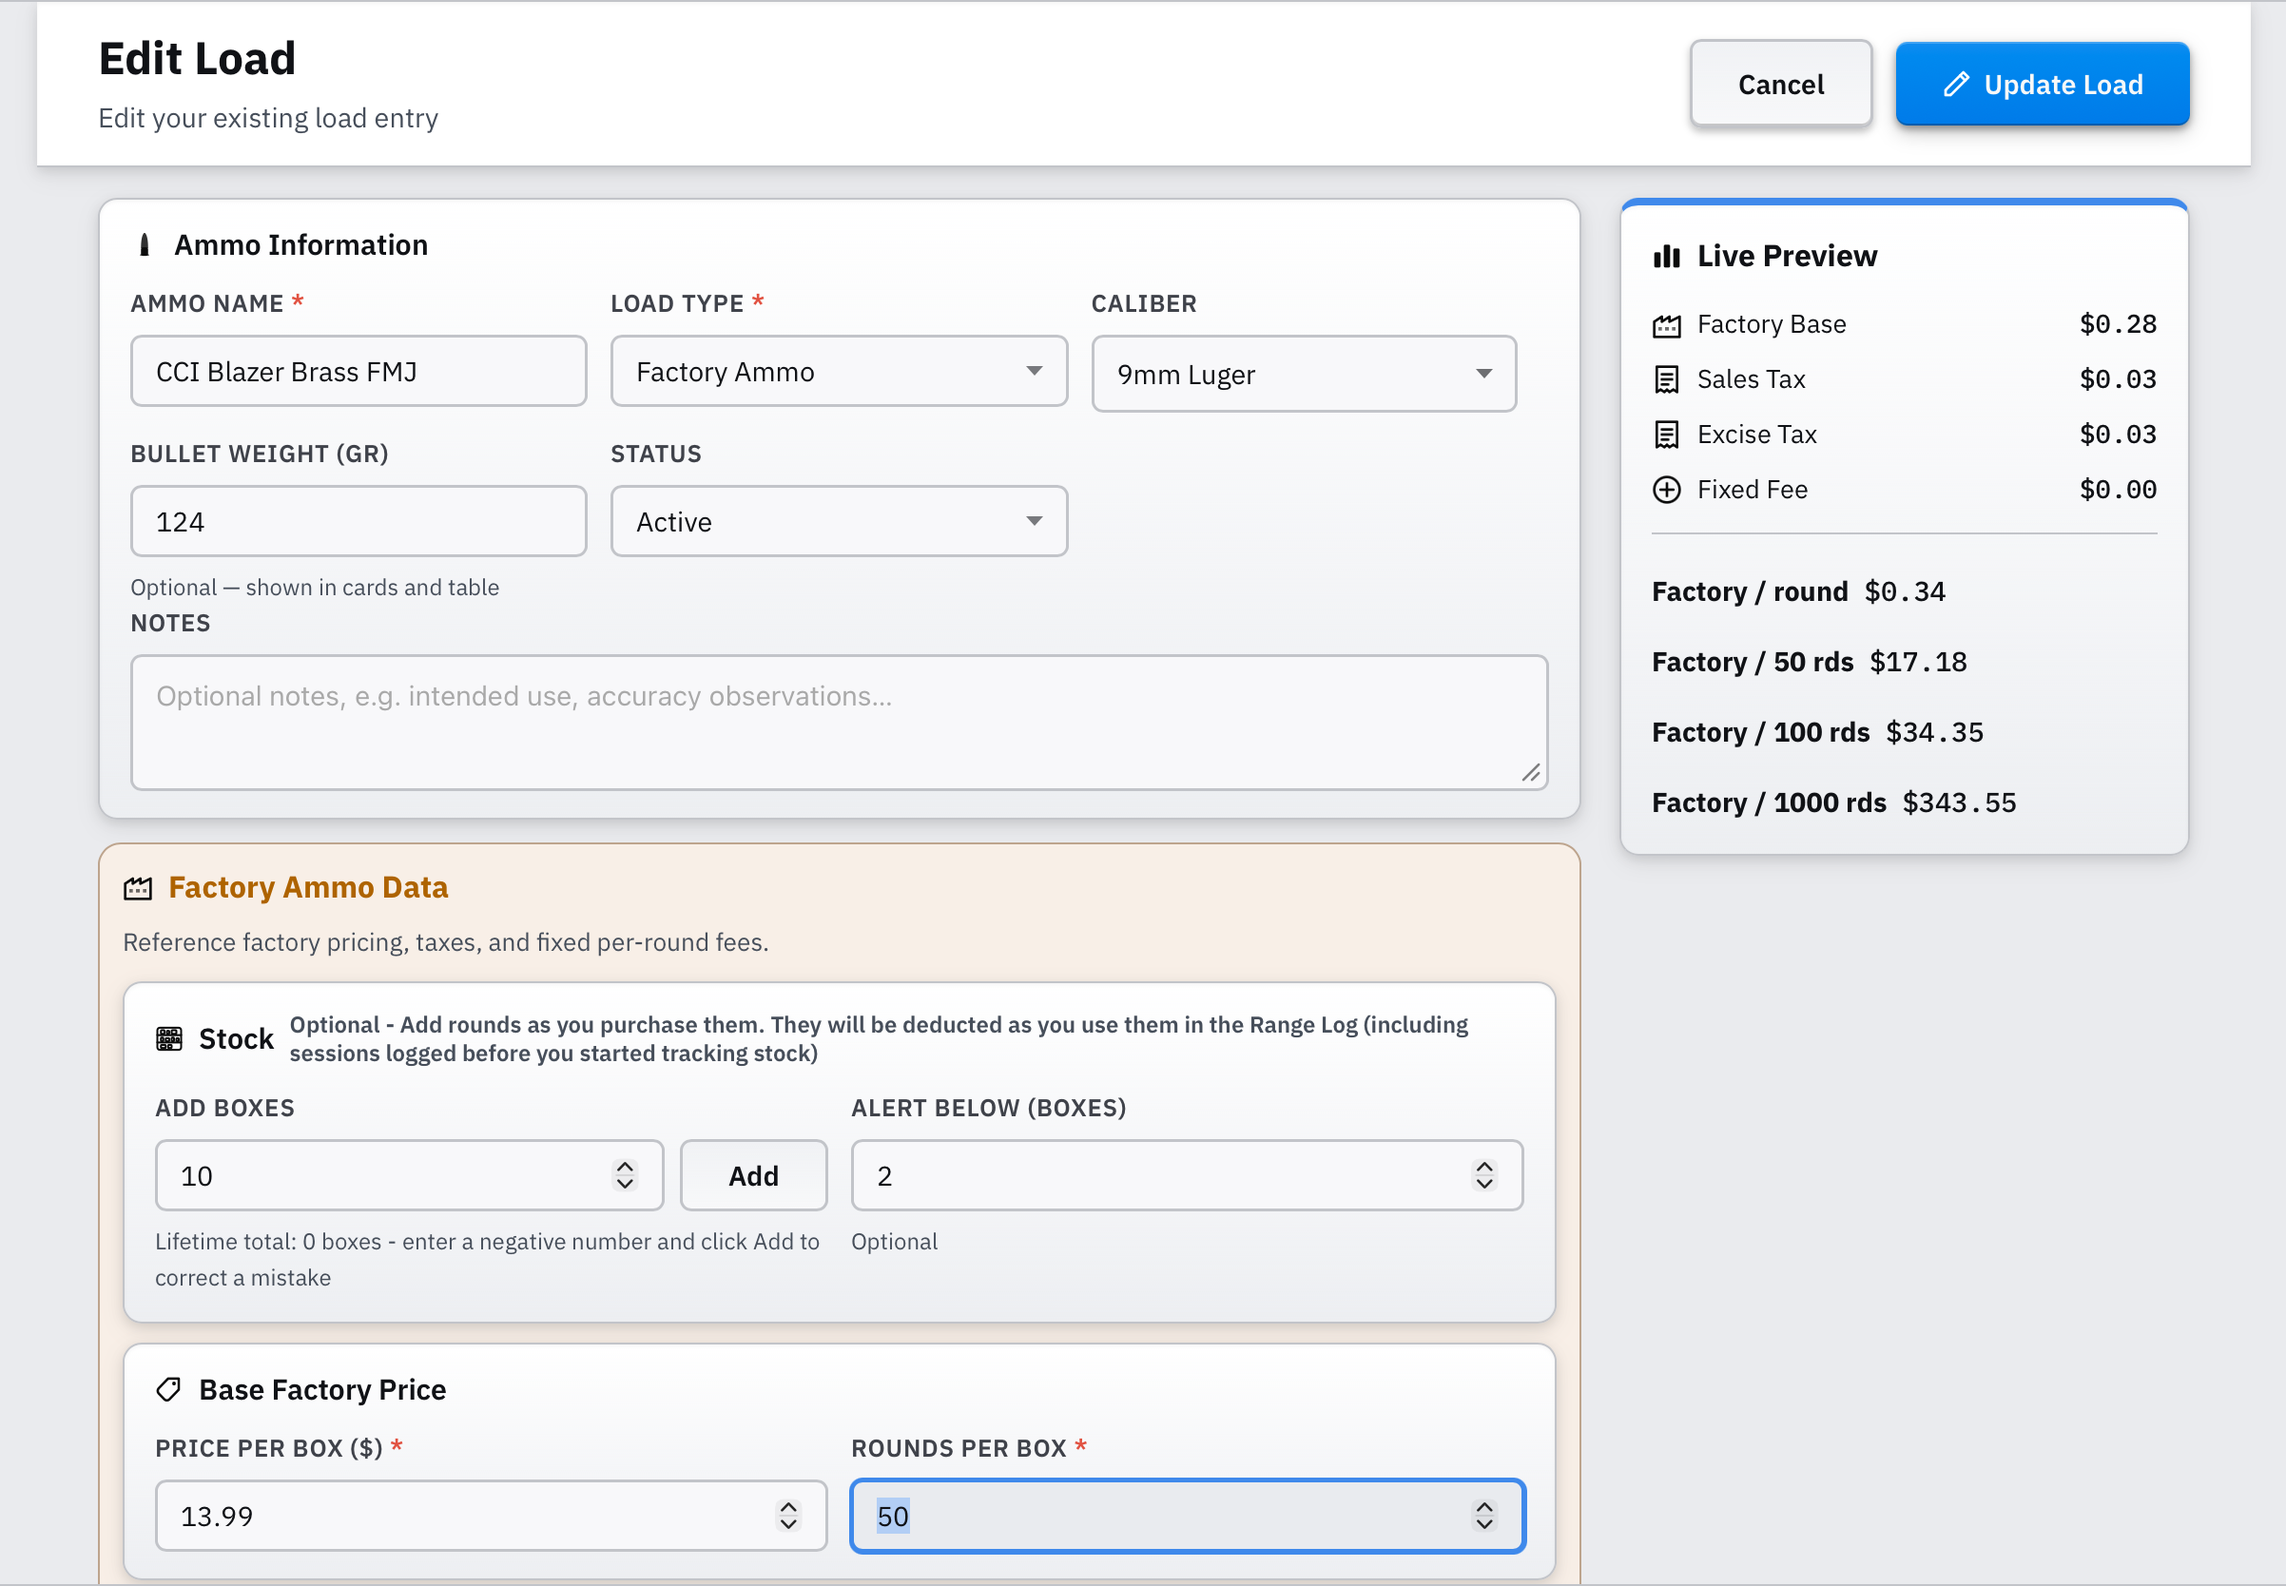
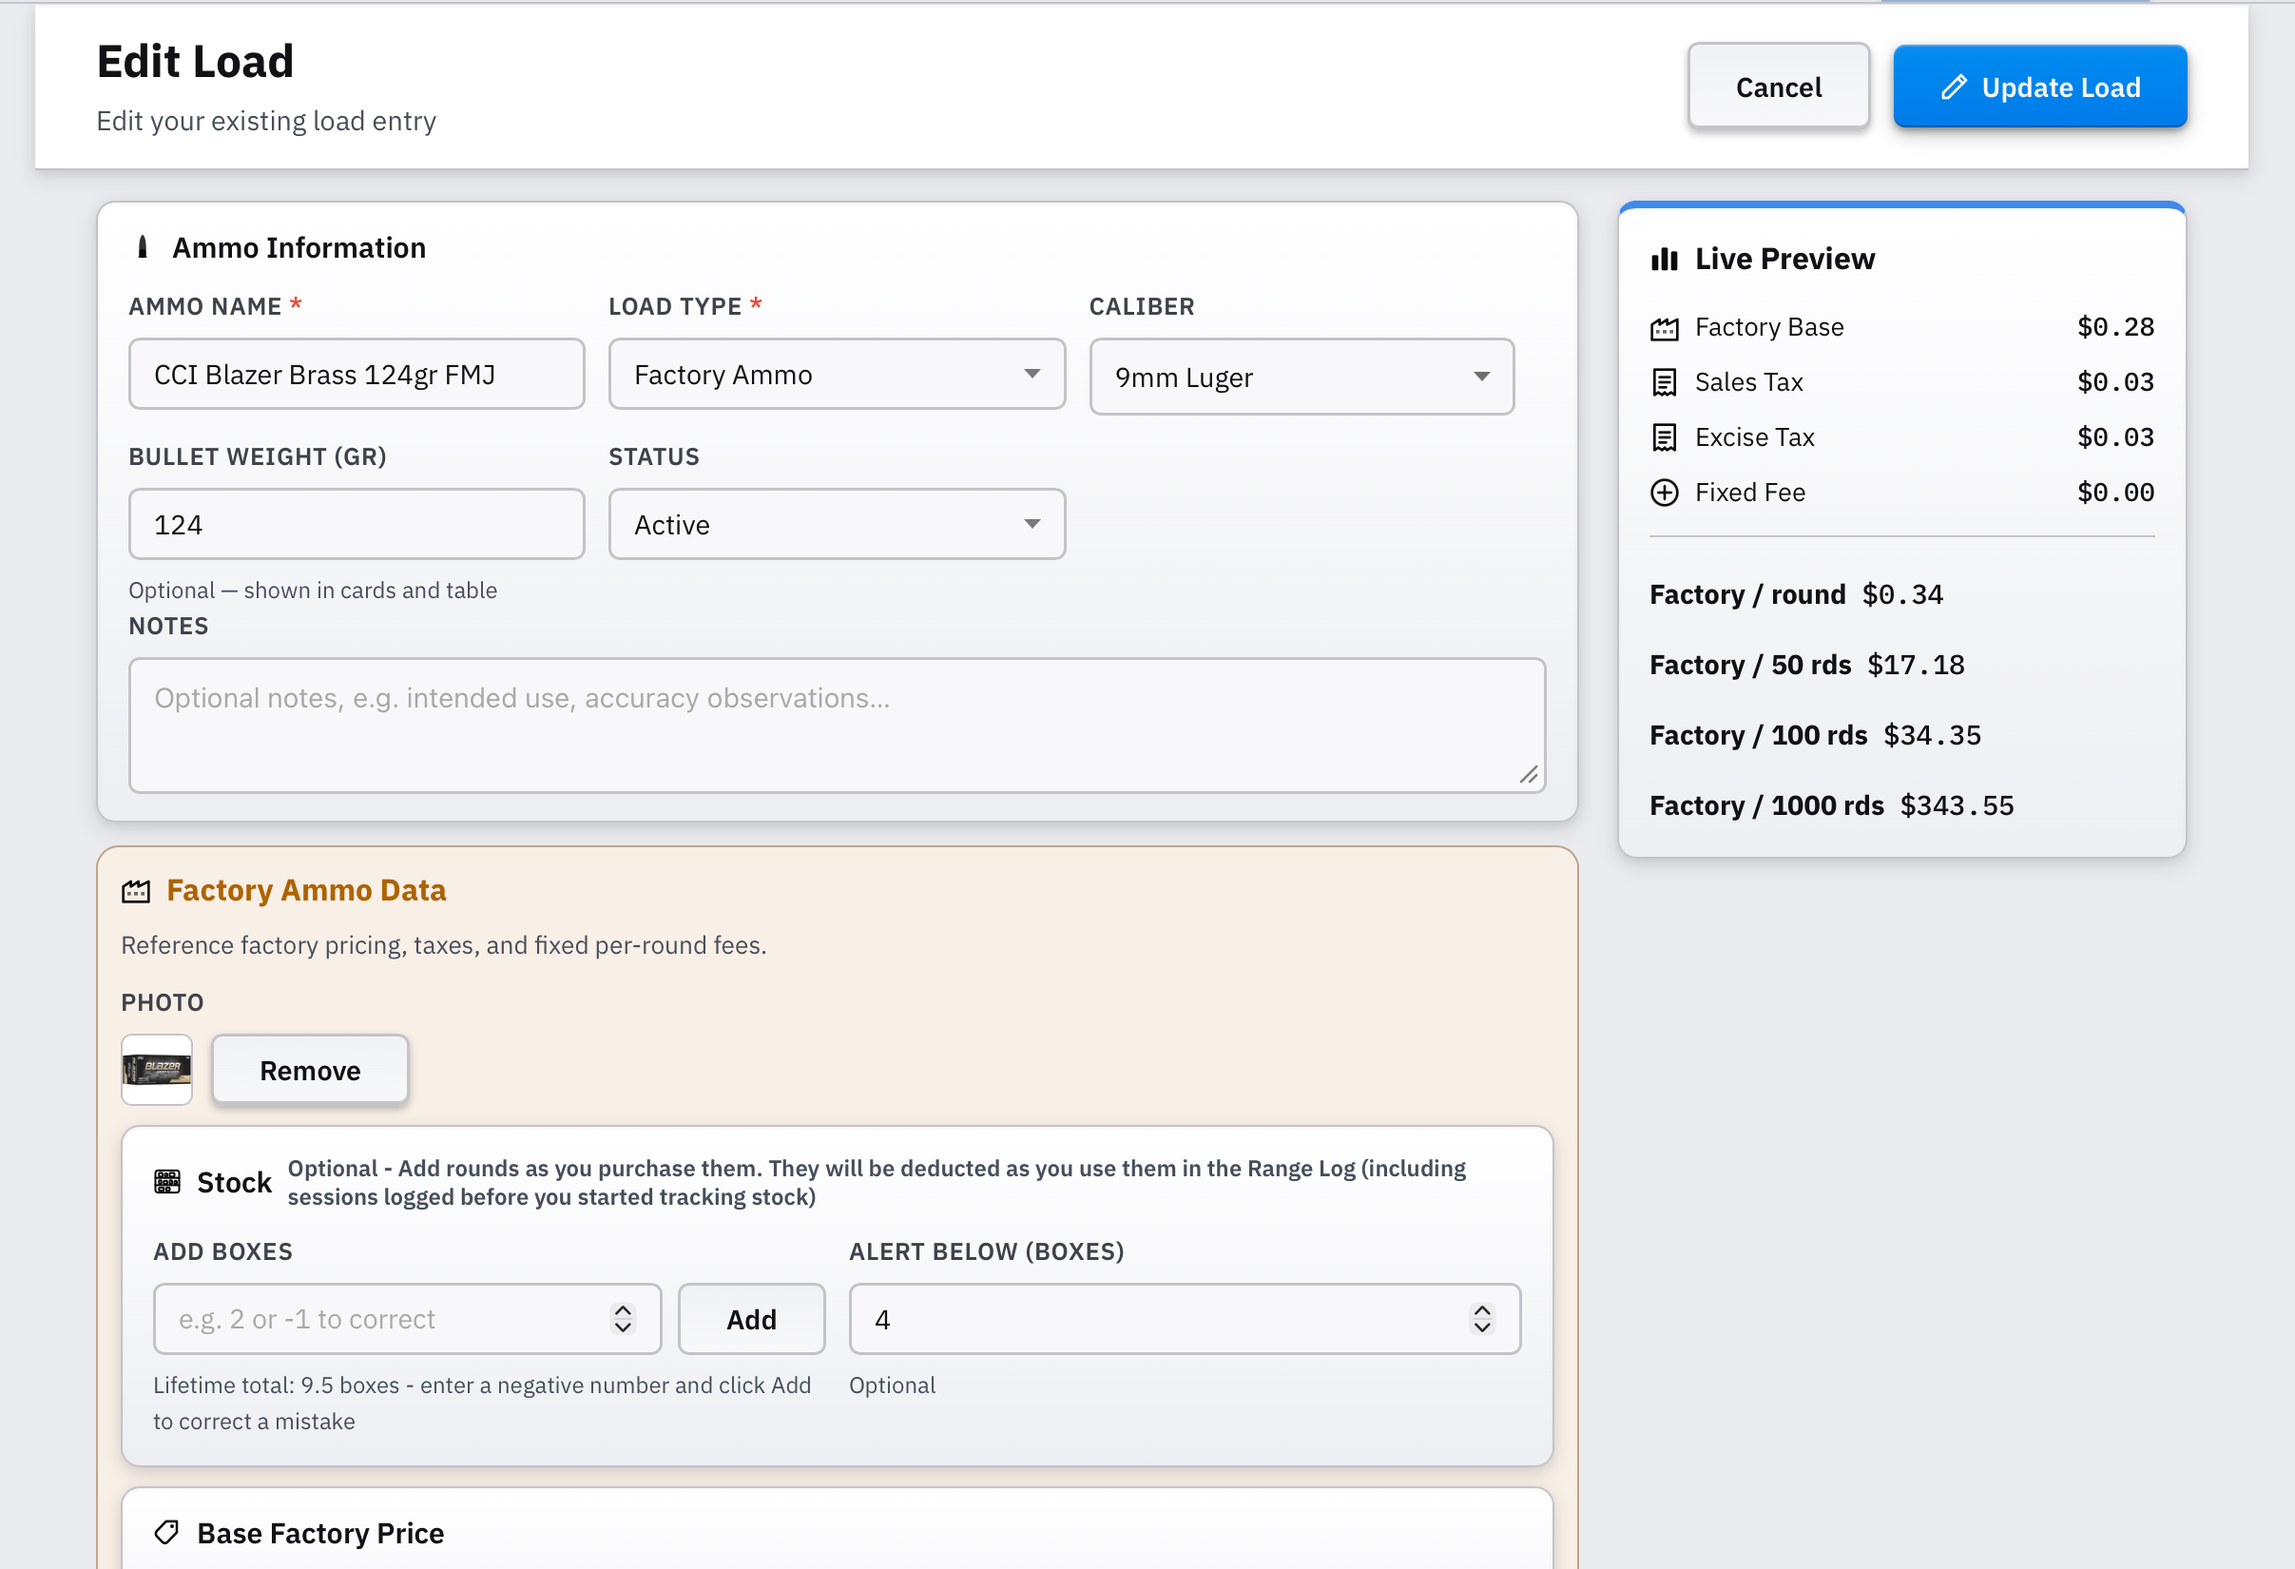
Update user's guide after adding photos to components and factory ammo.

Changed region(s): [[0.0, 0.1236, 1.0, 1.0], [0.7176, 0.0, 0.9983, 0.0927], [0.0, 0.0, 0.1872, 0.0927]]

diff --git a/README.md b/README.md
@@ -1,4 +1,4 @@
-# Reloading Tracker 2.9.0: User Guide
+# Reloading Tracker 2.10.0: User Guide
 
 Reloading Tracker is your complete bench-to-range companion. It starts as a production log: define your loads, record every pressing session with a unique lot number, and print a label for every box on your shelf. And it grows with you from there.
 
@@ -245,6 +245,9 @@ Click **Add Ammo** or the **+** button in the **Factory** section header. The Ed
 **Additional Fixed Cost**
 - A flat fee spread over a number of rounds, useful for background check fees (e.g. $25 over 500 rounds = $0.05/rd extra) if applicable in your State.
 
+**Photo** *(optional)*
+- Upload a photo of the ammo box (HEIC photos from iPhone are converted automatically). It's resized and compressed for storage, then shown as a thumbnail on the card and in table view - see [2.3](#23-managing-ammo-entries) below. Click **Remove** to clear it.
+
 ![Screenshot: Load editor: Factory Ammo Data form](images/factory-ammo.png)
 
 ### 2.3 Managing Ammo Entries
@@ -269,6 +272,20 @@ You can also switch between **Card** and **Table** views using the view toggle n
 Factory ammo entries with stock tracking enabled (see [2.2](#22-adding-a-factory-ammo-entry)) show a **Stock** line on the card, or a **Stock** column in table view - both display rounds and boxes remaining together, e.g. *250 rds (5 boxes) left*. A **Low** badge appears once remaining stock falls to or below your configured **Alert Below** threshold. Hover (or focus) the Stock label to see the full breakdown in a tooltip: lifetime total purchased, rounds logged in the Range Log, and the resulting remainder. Entries with no boxes added yet show no Stock line at all.
 
 ![Screenshot: Expanded ammo card showing component breakdown](images/ammo-viewer.png)
+
+**Photo thumbnails**
+
+Factory ammo entries with a photo (see [2.2](#22-adding-a-factory-ammo-entry)) show it as a thumbnail on the card and in the table's Photo column. Hover (or focus) the thumbnail to preview the ammo's name, caliber, weight, price per box, and cost per round in a popup - the same behavior as firearm photo thumbnails (see [4.4](#44-card-and-table-views)-[4.5](#45-firearm-datasheet)).
+
+![Screenshot: My Ammo card and table showing a factory ammo photo thumbnail](./images/ammo-photo-thumbnail.png)
+
+![Screenshot: Ammo photo hover popup showing name, caliber, weight, price, and cost per round](./images/ammo-datasheet-popup.png)
+
+**Photos in the printed Data Sheet**
+
+When you print a load's **Data Sheet**, any photo you uploaded for a factory ammo entry appears at the top of the sheet. For reloads, the Data Sheet instead shows photos of the linked powder, primer, bullet, and brass (see [3.3](#33-linking-inventory-to-loads)) as a labeled photo strip in the Components section, whenever those inventory items have a photo. An **Include photos** checkbox at the bottom of the Data Sheet dialog (checked by default) lets you leave photos out of the preview and the printed page.
+
+![Screenshot: Printed load data sheet showing the reload component photo strip in the Components section](./images/datasheet-component-photos.png)
 
 ### Load Status
 
@@ -431,6 +448,9 @@ Choose one of the four types using the selector buttons at the top of the form. 
 **Name / Description** *(required)*  
 A descriptive label, e.g. *Titegroup*, *CCI 500 Small Pistol*, *124gr FMJ RN*, *Mixed once-fired 9mm*.
 
+**Photo** *(optional)*  
+Upload a photo of the component (HEIC photos from iPhone are converted automatically). It's resized and compressed for storage, then shown as a thumbnail on the card or in the table's Photo column - see [3.2](#32-managing-components) below. Click **Remove** to clear it.
+
 **Price** *(required)*  
 The price you paid for the component. For powders this is the price per pound (Imperial) or per kilogram (Metric). For all other types it is the total price for the quantity below.
 
@@ -498,6 +518,12 @@ Each component card has three action buttons:
 In **Table view**, the **Stock** column shows the current quantity on hand for each component, formatted with a unit suffix (*primers*, *rounds*, *cases*, *lb*, or *kg*). Components with no stock quantity set show a dash (-). A **Low** badge appears in the same cell when stock is at or below the threshold.
 
 For brass, an **Info** column shows the same Consistency & Fit / Annealing icon buttons as the card view, keeping the table compact instead of adding a separate column per field.
+
+**Photo thumbnails**
+
+Components with a photo (see [3.1](#31-adding-a-component)) show it as a thumbnail on the card, in place of the generic type icon, or in the table's Photo column. Hover (or focus) the thumbnail to preview the component's name, type, price, stock, and key specs in a popup.
+
+![Screenshot: My Components card and table showing a photo thumbnail and hover popup](./images/inventory-photo-popup.png)
 
 ### 3.3 Linking Inventory to Loads
 
@@ -1360,7 +1386,7 @@ The application still defaults to the **dark theme** on first launch. If you ena
 
 ## 12. Import & Export
 
-Your entire library (ammo entries, tax defaults, equipment costs, load selections, component inventory, reloading journal, range log, firearm profiles including photos, and target analysis records including photos) can be saved to a file and restored later or transferred to another computer.
+Your entire library (ammo entries including photos, tax defaults, equipment costs, load selections, component inventory including photos, reloading journal, range log, firearm profiles including photos, and target analysis records including photos) can be saved to a file and restored later or transferred to another computer.
 
 **Exporting**
 Click **Export** in the top navigation bar. A `.zip` file is downloaded to your machine. The archive contains all your data and any target photos you have uploaded, compressed into a single portable file.
